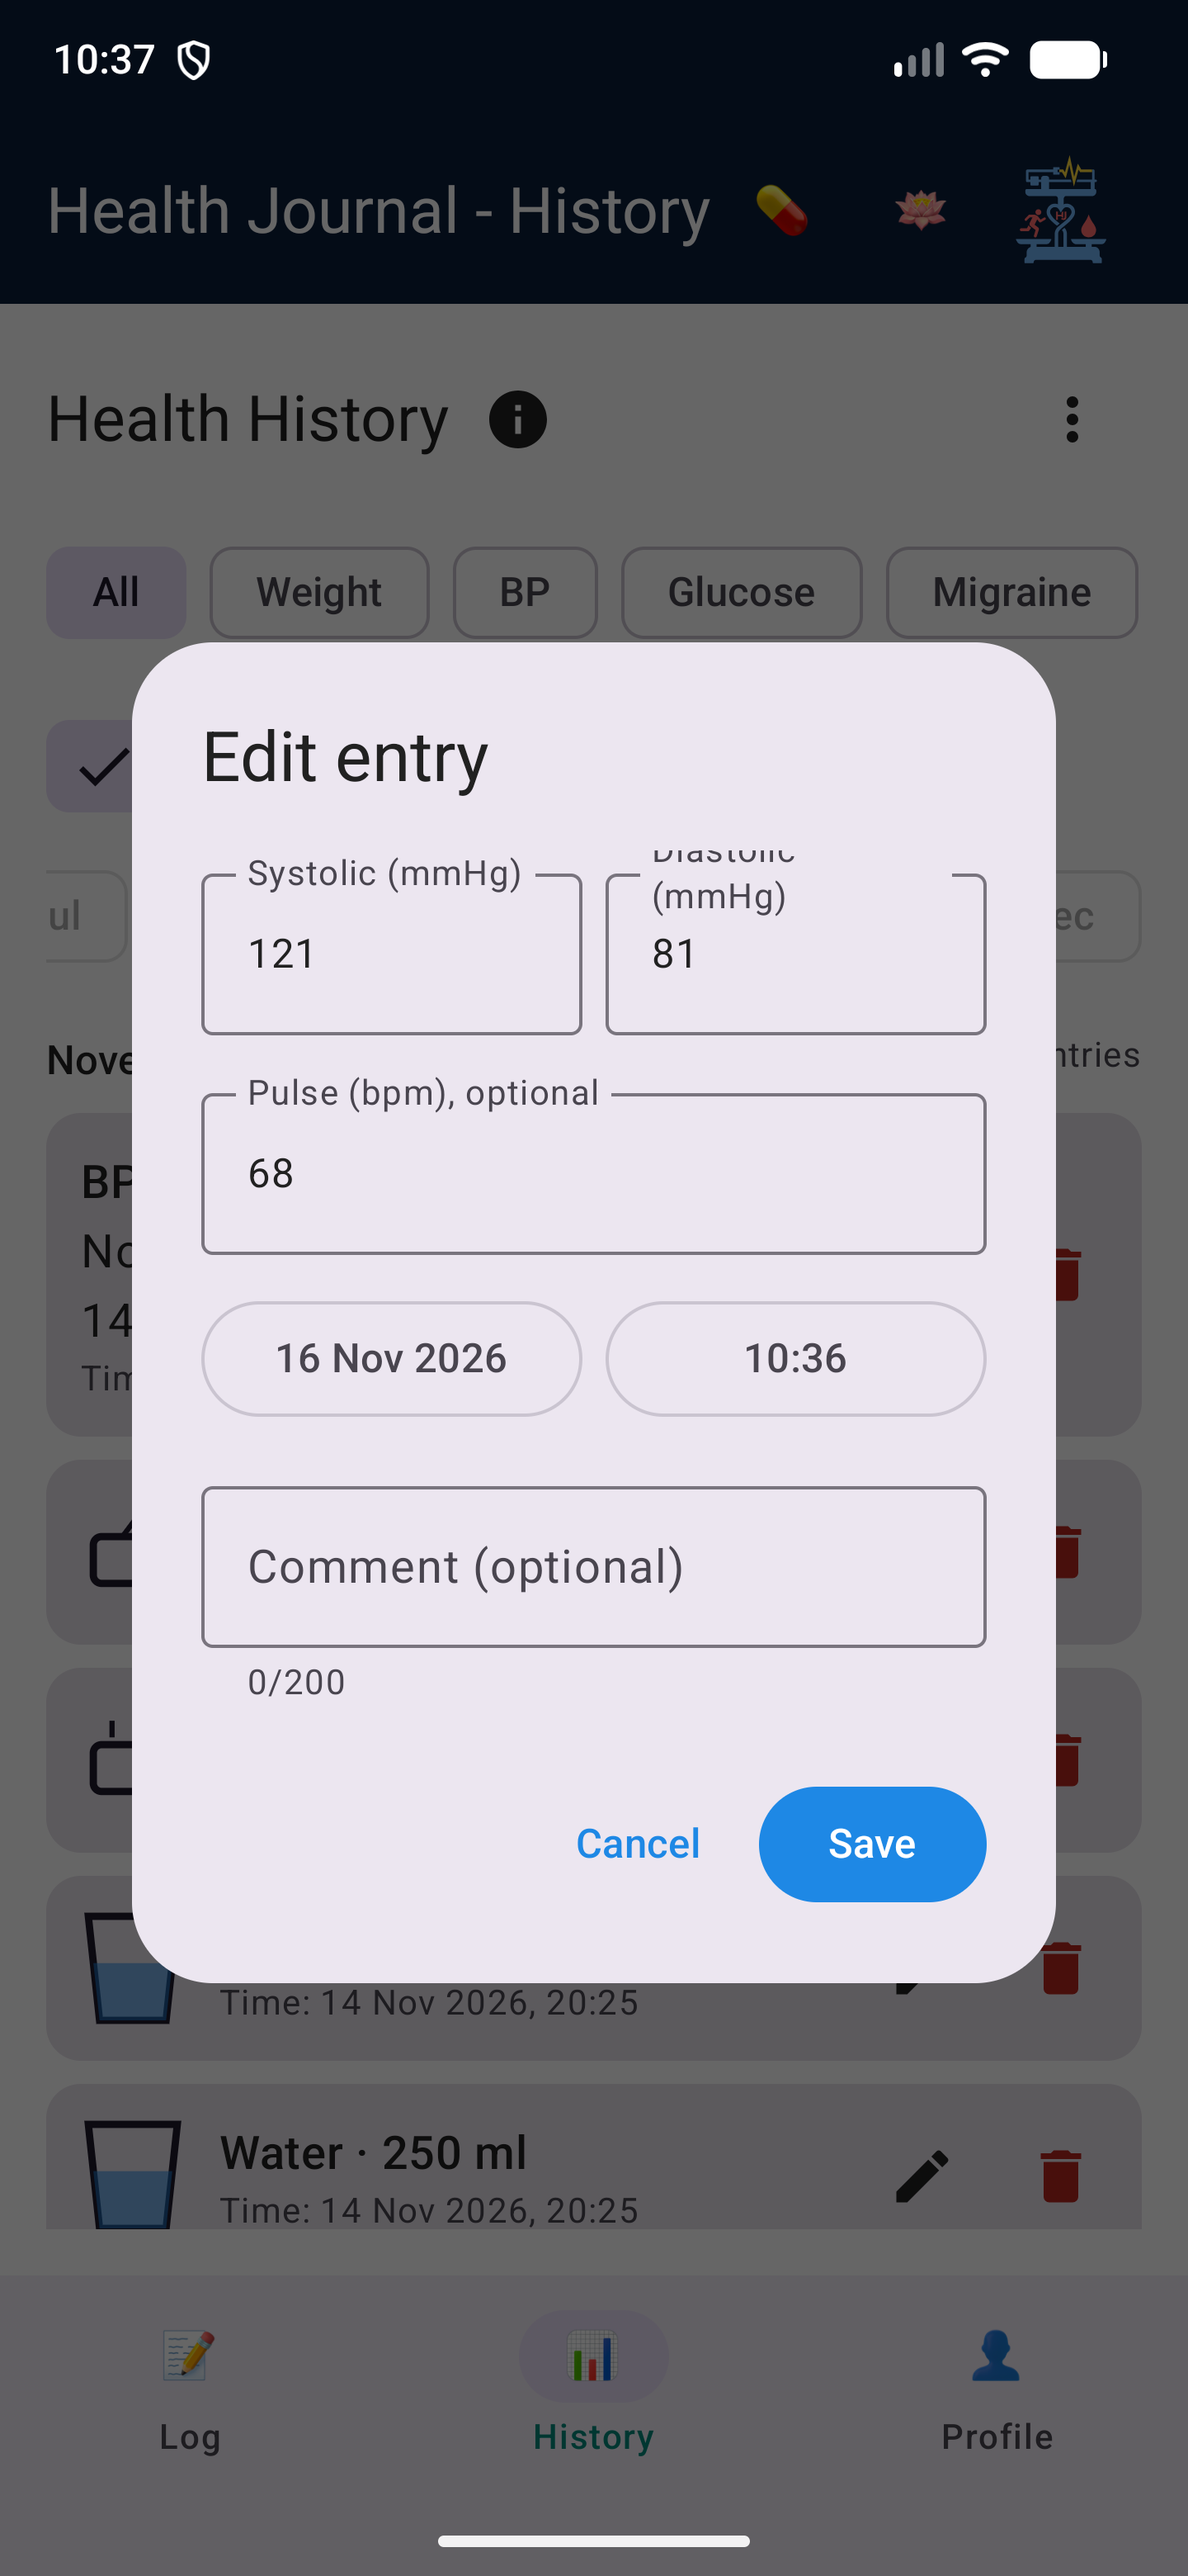
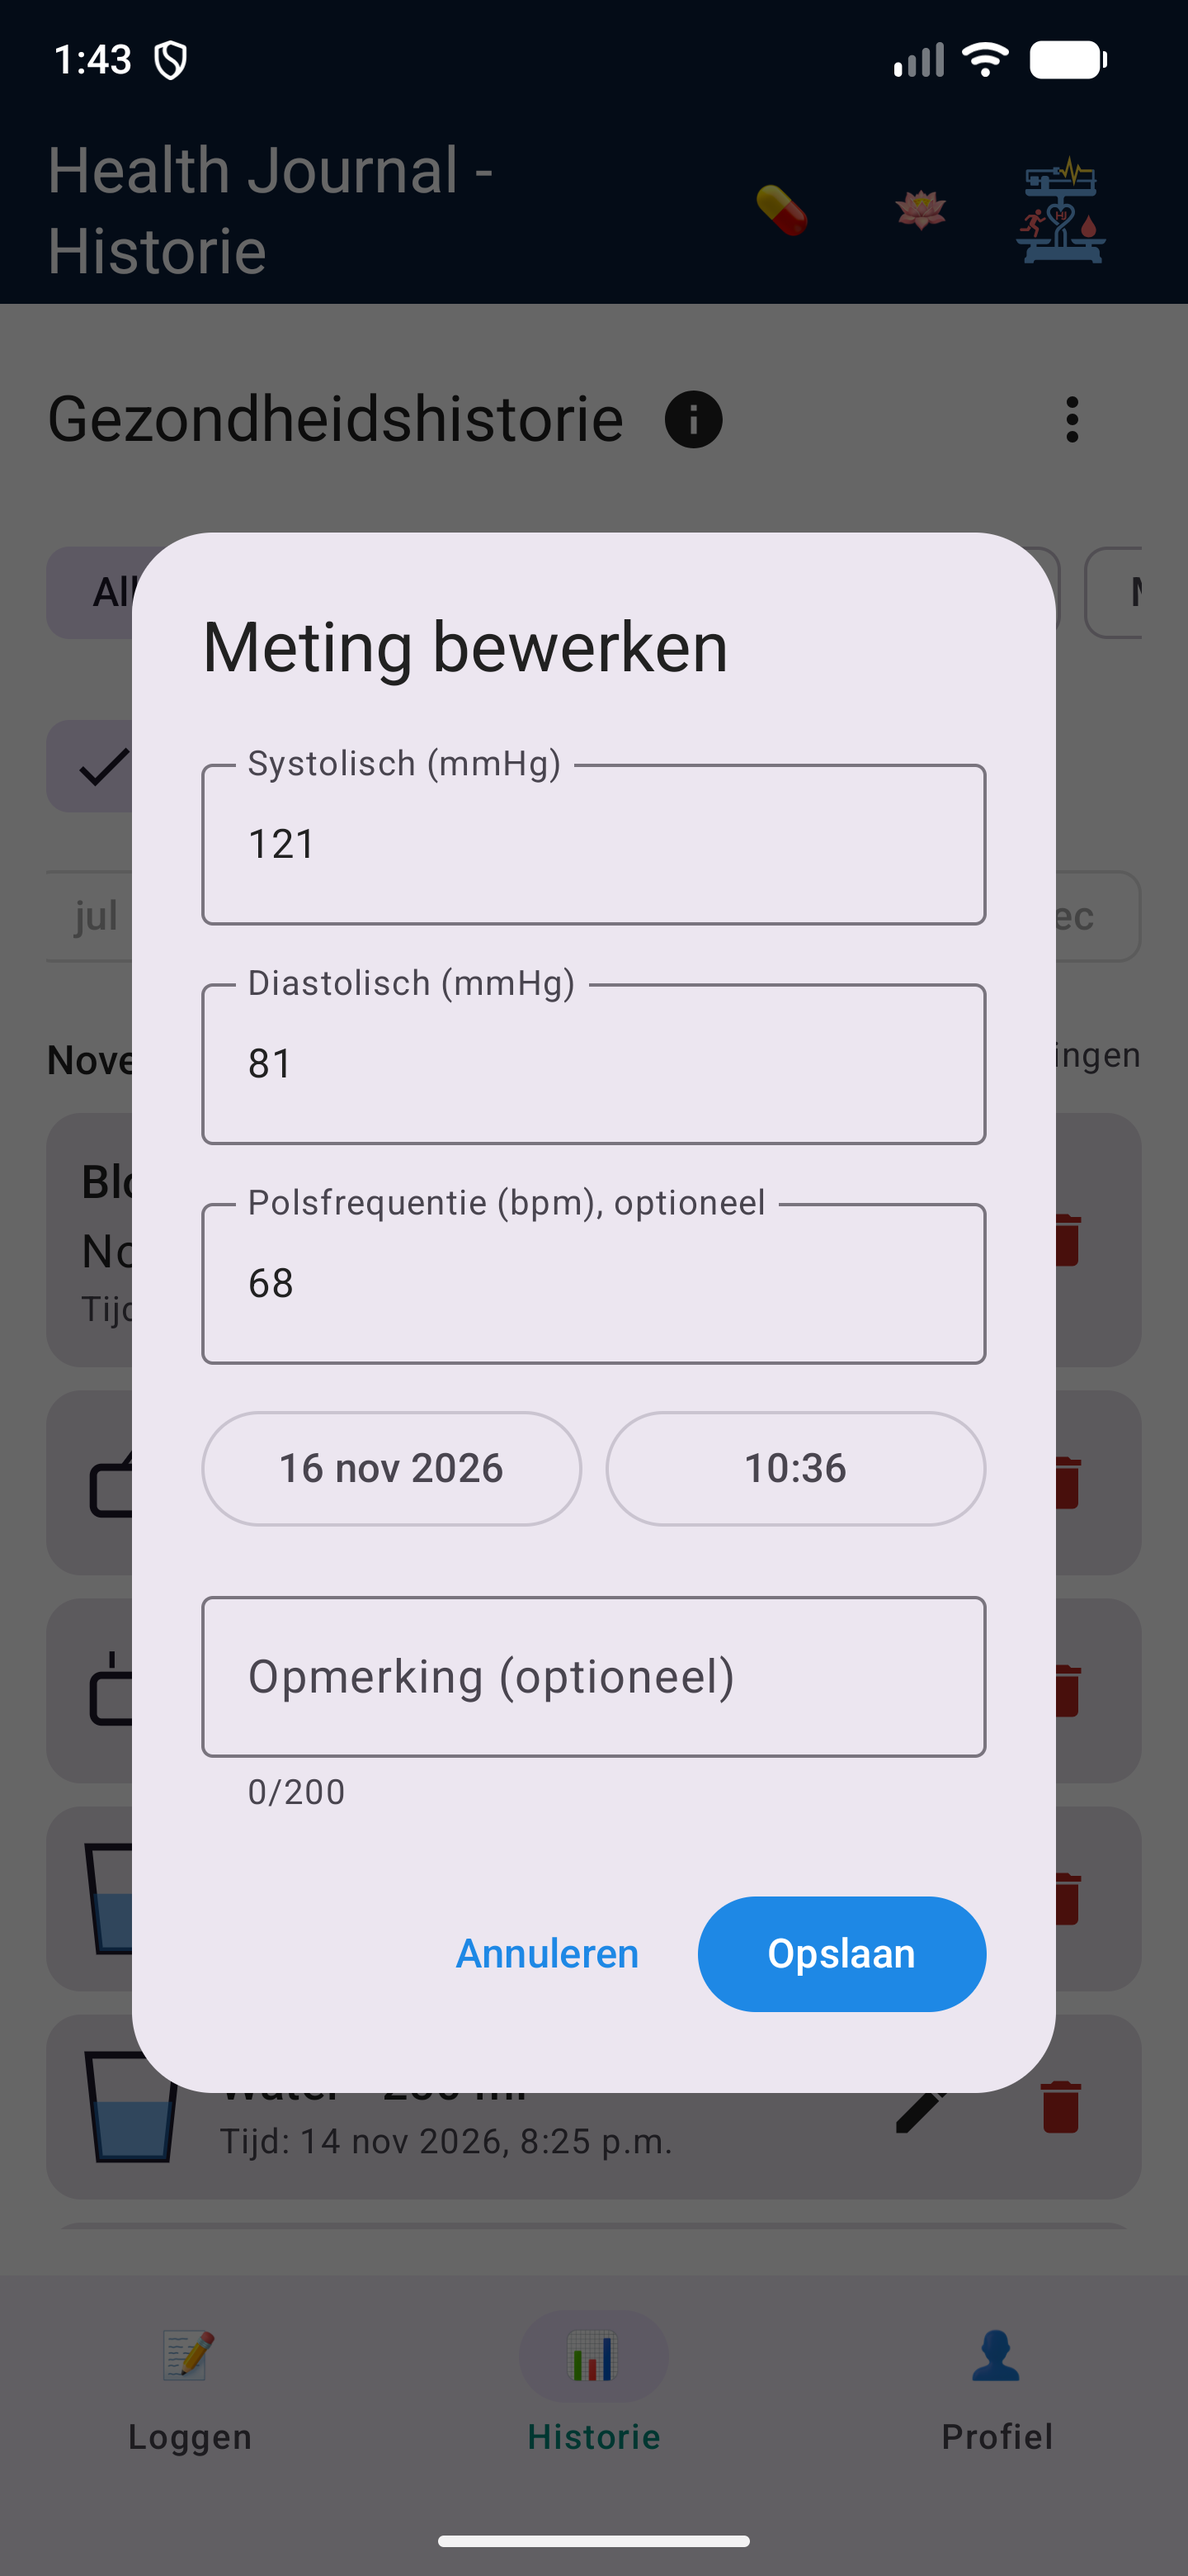
fix: stack the blood pressure edit fields so their labels are not clipped (#45)

diff --git a/app/src/main/java/nl/healthjournal/app/ui/history/EntryDialogs.kt b/app/src/main/java/nl/healthjournal/app/ui/history/EntryDialogs.kt
@@ -238,24 +238,23 @@ private fun EditEntryDialog(ref: DialogEntryRef, serverError: UiText?, viewModel
                 when (ref) {
                     is EntryRef.Weight -> DecimalField(weight, { weight = it }, stringResource(R.string.log_weight_label, units.weightSymbol))
                     is EntryRef.BloodPressure -> {
-                        Row(horizontalArrangement = Arrangement.spacedBy(8.dp)) {
-                            OutlinedTextField(
-                                value = systolic,
-                                onValueChange = { systolic = it },
-                                label = { Text(stringResource(R.string.log_systolic_label)) },
-                                keyboardOptions = KeyboardOptions(keyboardType = KeyboardType.Number),
-                                singleLine = true,
-                                modifier = Modifier.weight(1f)
-                            )
-                            OutlinedTextField(
-                                value = diastolic,
-                                onValueChange = { diastolic = it },
-                                label = { Text(stringResource(R.string.log_diastolic_label)) },
-                                keyboardOptions = KeyboardOptions(keyboardType = KeyboardType.Number),
-                                singleLine = true,
-                                modifier = Modifier.weight(1f)
-                            )
-                        }
+                        // Stacked, not side by side: the half-width fields were too narrow for the labels, which wrapped and clipped.
+                        OutlinedTextField(
+                            value = systolic,
+                            onValueChange = { systolic = it },
+                            label = { Text(stringResource(R.string.log_systolic_label)) },
+                            keyboardOptions = KeyboardOptions(keyboardType = KeyboardType.Number),
+                            singleLine = true,
+                            modifier = Modifier.fillMaxWidth()
+                        )
+                        OutlinedTextField(
+                            value = diastolic,
+                            onValueChange = { diastolic = it },
+                            label = { Text(stringResource(R.string.log_diastolic_label)) },
+                            keyboardOptions = KeyboardOptions(keyboardType = KeyboardType.Number),
+                            singleLine = true,
+                            modifier = Modifier.fillMaxWidth()
+                        )
                         OutlinedTextField(
                             value = bpPulse,
                             onValueChange = { bpPulse = it.filter(Char::isDigit).take(3) },

diff --git a/docs/screenshots.md b/docs/screenshots.md
@@ -56,11 +56,11 @@ All screenshots of the Health Journal app, in the light and dark theme. Back to 
 | <img src="screenshots/light-bp-scatter.png" width="250" alt="Blood pressure graph with readings as dots on the three NHG bands, light theme"> | <img src="screenshots/dark-bp-scatter.png" width="250" alt="Blood pressure graph with readings as dots on the three NHG bands, dark theme"> |
 | <img src="screenshots/light-bp-statistics.png" width="250" alt="Reading steadiness and comparison with the previous period, light theme"> | <img src="screenshots/dark-bp-statistics.png" width="250" alt="Reading steadiness and comparison with the previous period, dark theme"> |
 
-**Blood pressure edit dialog** (History, pencil on a blood pressure entry: systolic, diastolic, an optional pulse of 30 to 250 that keeps its value when you edit something else, date, time and comment; the dark picture is in Dutch)
+**Blood pressure edit dialog** (History, pencil on a blood pressure entry: systolic, diastolic, an optional pulse of 30 to 250 that keeps its value when you edit something else, date, time and comment; the fields are stacked so the longer Dutch labels fit; the light picture is in Dutch)
 
 | Light | Dark |
 |-------|------|
-| <img src="screenshots/light-bp-edit-pulse.png" width="250" alt="Edit dialog for a blood pressure entry with systolic, diastolic and an optional pulse field, light theme"> | <img src="screenshots/dark-bp-edit-pulse.png" width="250" alt="Edit dialog for a blood pressure entry with an optional pulse field, dark theme, Dutch"> |
+| <img src="screenshots/light-bp-edit-pulse.png" width="250" alt="Edit dialog for a blood pressure entry with stacked systolic, diastolic and an optional pulse field, light theme, Dutch"> | <img src="screenshots/dark-bp-edit-pulse.png" width="250" alt="Edit dialog for a blood pressure entry with stacked systolic, diastolic and an optional pulse field, dark theme"> |
 
 **Log pickers in pounds and mg/dL** (Regional formats set to US: the weight ruler and the glucose field start from the latest entry in the units shown, here 75.6 kg as 166.7 lb and 5.4 mmol/L as 97 mg/dL; switching the glucose unit converts the value in the field)
 

diff --git a/CHANGELOG.md b/CHANGELOG.md
@@ -15,6 +15,7 @@ All notable changes to Health Journal. Format follows [Keep a Changelog](https:/
 - **Glucose typed in mmol/L is rounded to 2 decimals:** a value such as 5.555 was stored as typed, while the specification (and the mg/dL path) store 2 decimals, half up. It is now rounded first, and the 0.5 to 55.0 range is checked on the rounded value. Nothing changes on screen for values with one decimal.
 - **Log pickers use the units you chose:** with pounds or mg/dL selected, the weight ruler and the glucose field started from the stored kilograms or mmol/L number, so an untouched start read as 75 lb (saved as about 34 kg). They now start from the latest entry in your units, the weight ruler range follows the unit, and switching units converts what is already in the fields.
 - **Editing a blood pressure entry no longer erases its pulse:** saving an edit in History dropped the stored pulse. The edit dialog now has an optional pulse field (30 to 250, empty clears it), and the entry keeps its pulse when you change something else. English and Dutch strings.
+- **Blood pressure edit dialog labels fit:** in History, the Systolic and Diastolic fields are now stacked, so "Diastolic (mmHg)" and the longer Dutch "Systolisch (mmHg)" no longer wrap and get clipped at the top of a half-width field.
 
 ## [1.7.5] - 2026-11-14
 
